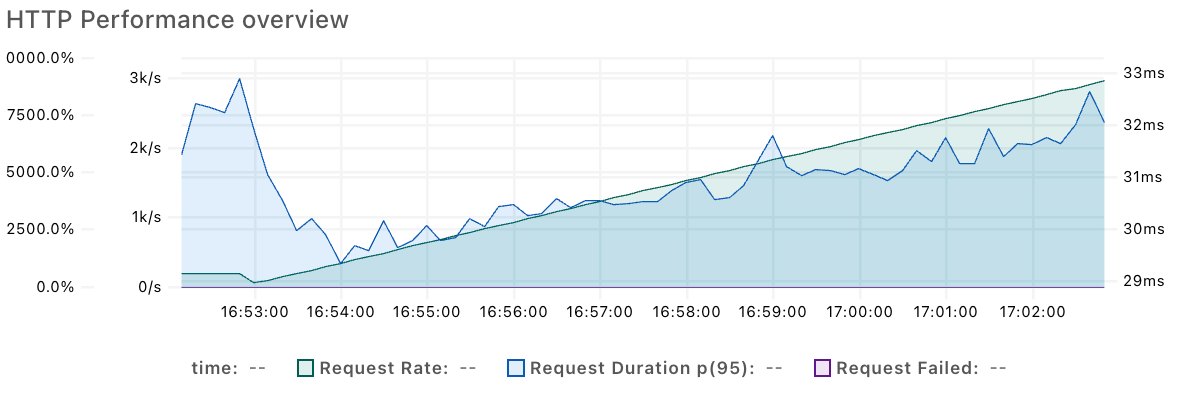
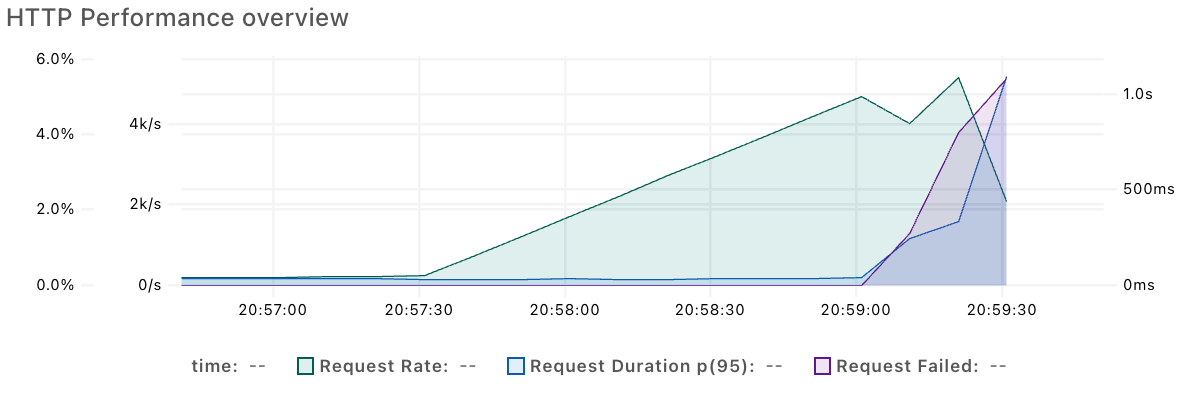
update readme

diff --git a/README.md b/README.md
@@ -270,7 +270,7 @@ See the [code](infra/startup-lb.sh.tftpl) for details.
 
 With the now higher number of API nodes, the bottleneck shifted towards the DB node:
 
-**Results of Read-Only Breakpoint Test** 
+**Results of Read-Only Breakpoint Test (5 API-Nodes)** 
 ![Measurement](docs/measurement_after_LB.png)
 ![API Stats](docs/API_measurement_after_LB.jpeg)
 ![DB Stats](docs/DB_measurement_after_LB.png)
@@ -286,20 +286,30 @@ Because the data stored in a URL shortener is immutable, we did not have to worr
 
 See the [code](services/api/cache.py) for details.
 
-This worked very well and allowed us to handle significantly more requests per second:
+This worked very well and allowed us to handle significantly more requests per seconds for the hotspot access pattern:
 
-**Results of Read-Only Breakpoint Test (Hotspot-Distribution)** 
+**Results of Read-Only Breakpoint Test (Hotspot-Distribution, 5 API-Nodes)** 
 ![Measurement](docs/measurement_cache_hotspot.png)
+![API Stats](docs/API_measurement_cache_hotspot.png)
+![DB Stats](docs/DB_measurement_cache_hotspot.png)
+
+However, caches only help with read requests, and only when the access pattern is somewhat skewed so that many cache hits are possible. For a uniform access pattern the throughput was still limited by the DB-Node:
+
+**Results of Read-Only Breakpoint Test (Uniform-Distribution, 5 API-Nodes)** 
+![Measurement](docs/measurement_cache_uniform.png)
+![API Stats](docs/API_measurement_cache_uniform.png)
+![DB Stats](docs/DB_measurement_cache_uniform.png)
 
 
-However, caches only help with read requests, and only when the access pattern is somewhat skewed so that many cache hits are possible. We therefore picked a second strategy to further relieve the DB bottleneck.
+We therefore picked a second strategy to further relieve the DB bottleneck.
 
 ### Strategy 2: (Shuffle) Sharding
 
-As a second strategy we implemented shuffle sharding. Each DB node represents one shard that stores a subset of the data. We use hash-based sharding to distribute the data as evenly as possible. On top of that we apply shuffle sharding, so every item is placed on more than one shard, which keeps all data accessible even if a single shard fails. The replica set for each code is determined deterministically using rendezvous hashing.
+As a second strategy we implemented shuffle sharding. Each DB node represents one shard that stores a subset of the data. We use hash-based sharding to distribute the data as evenly as possible. On top of that we apply shuffle sharding, so every item is placed on more than one shard, which keeps all data accessible even if a single shard fails. `DB_SHARD_REPLICATION_FACTOR` controls how many shards each code is replicated
+to and the replica set for each code is determined deterministically using rendezvous hashing.
 See the code in [`services/api/app.py`](services/api/app.py) and [`services/api/sharding.py`](services/api/sharding.py) for details.
 
-@Maurice Könntest du hier ein Ergebnis von einem uniform-breakpoint Test einfügen
+@Maurice Könntest du hier ein Ergebnis von einem read-only uniform breakpoint Test einfügen
 
 ### Overload Protection
 
@@ -325,16 +335,17 @@ healthy ones. Every DB call is guarded by self-implemented primitives in
   (then probes once), so a slow or dead shard cannot block API workers on calls
   to it, and only that shard is short-circuited.
 
-`DB_SHARD_REPLICATION_FACTOR` controls how many shards each code is replicated
-to. The shared httpx connection pool is sized to `len(shards) *
+The shared httpx connection pool is sized to `len(shards) *
 DB_SHARD_CONCURRENCY` so a stalled shard cannot starve the pool and reintroduce
 cross-shard coupling.
+
+(Important note: For our breakpoint test in the results section we intentionally set the `DB_SHARD_CONCURRENCY` extremly high, since we want to test the actual limits of the system here!)
 
 @Maurice Fügst du hier die Ergenisse eines Tests ein, der Zeigt, dass das funktioniert?
 
 ## Results
 
- @Maurice Hier bitte die Results für 1/3/5 Nodes einfügen. Dabei einmal Inital sagen, was das Setup war also wie viele Shards und welcher Test und dann jeweils kurz ein/zwei Sätze was du aus den Results herausliest.
+ @Maurice Hier bitte die Results für 1/3/5 Nodes einfügen. Dabei einmal inital sagen, was das Setup war also wie viele Shards und welcher Test und dann jeweils kurz ein/zwei Sätze was du aus den Results herausliest.
 
 ## Limits
 